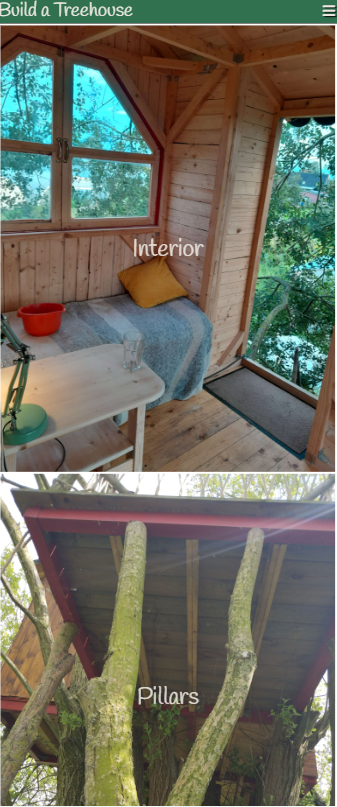
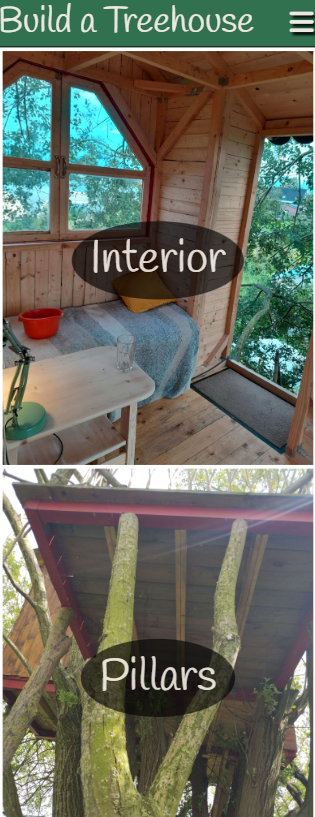
validator corrections, update readme images

diff --git a/gallery.html b/gallery.html
@@ -33,36 +33,36 @@
     <main id="gallery-page">
         <section id="gallery">
             <div class="image-container">
-                <div for="interior" class="image-label">Interior</div>
+                <div class="image-label">Interior</div>
                 <img id="interior" alt="Image of interior of treehouse" src="assets/images/interior2.jpg">
             </div>
             <div class="image-container">
-                <div for="support2" class="image-label">Pillars</div>
+                <div class="image-label">Pillars</div>
                 <img id="support2" alt="Image of pillars supporting treehouse" src="assets/images/support2.jpg">
             </div>
             <div class="image-container">
-                <div for="balcony" class="image-label">Balcony</div>
+                <div class="image-label">Balcony</div>
                 <img id="balcony" alt="Image of treehouse balcony" src="assets/images/balcony.jpg">
             </div>
             <div class="image-container">
-                <div for="roof" class="image-label">Roof</div>
+                <div class="image-label">Roof</div>
                 <img id="roof" alt="Image of shingles on treehouse roof" src="assets/images/roof.jpg">
             </div>
             <div class="image-container">
-                <div for="entrance" class="image-label">Entrance</div>
+                <div class="image-label">Entrance</div>
                 <img id="entrance" alt="Image of the treehouse entrance from the inside" src="assets/images/door.jpg">
             </div>
             <div class="image-container">
-                <div for="window" class="image-label">Window</div>
+                <div class="image-label">Window</div>
                 <img id="window" alt="image of treehouse window from the inside" src="assets/images/window.jpg">
             </div>
             <div class="image-container">
-                <div for="support" class="image-label">Support at 45&deg</div>
+                <div class="image-label">Support at 45&deg;</div>
                 <img id="support" alt="image of beam at 45 degrees to the treetrunk supporting the treehouse"
                     src="assets/images/support.jpg">
             </div>
             <div class="image-container">
-                <div for="stairs2" class="image-label">Stairwell</div>
+                <div class="image-label">Stairwell</div>
                 <img id="stairs2" alt="image of the stairs to the treehouse" src="assets/images/stairs2.jpg">
             </div>
         </section>
@@ -80,13 +80,13 @@
             <li>
                 <a href="https://en.wikipedia.org/wiki/Tree_house" target="_blank" rel="noopener"
                     aria-label="Wikepedia page on Treehouses(opens in a new tab)">
-                    <i class="fa-brands fa-wikipedia-w"></i></i>
+                    <i class="fa-brands fa-wikipedia-w"></i>
                 </a>
             </li>
             <li>
                 <a href="https://www.pinterest.com/audreana89/tree-houses-grown-up-type/" target="_blank" rel="noopener"
                     aria-label="Examples on tree houses on Pinterest(opens in a new tab)">
-                    <i class="fa-brands fa-pinterest"></i></i>
+                    <i class="fa-brands fa-pinterest"></i>
                 </a>
             </li>
             <li>

diff --git a/assets/css/style.css b/assets/css/style.css
@@ -18,7 +18,6 @@ body {
 /* Fonts */
 h2,nav,footer{
     font-family: "Caveat", cursive;
-    font-optical-sizing: auto;
     font-weight: 700;
     font-style: normal;
 }
@@ -482,10 +481,6 @@ footer ul {
     #subsections {
         display: flex;
         flex-direction: column;
-    }
-
-    .subsection p{
-        
     }
 
     #subsections img {
